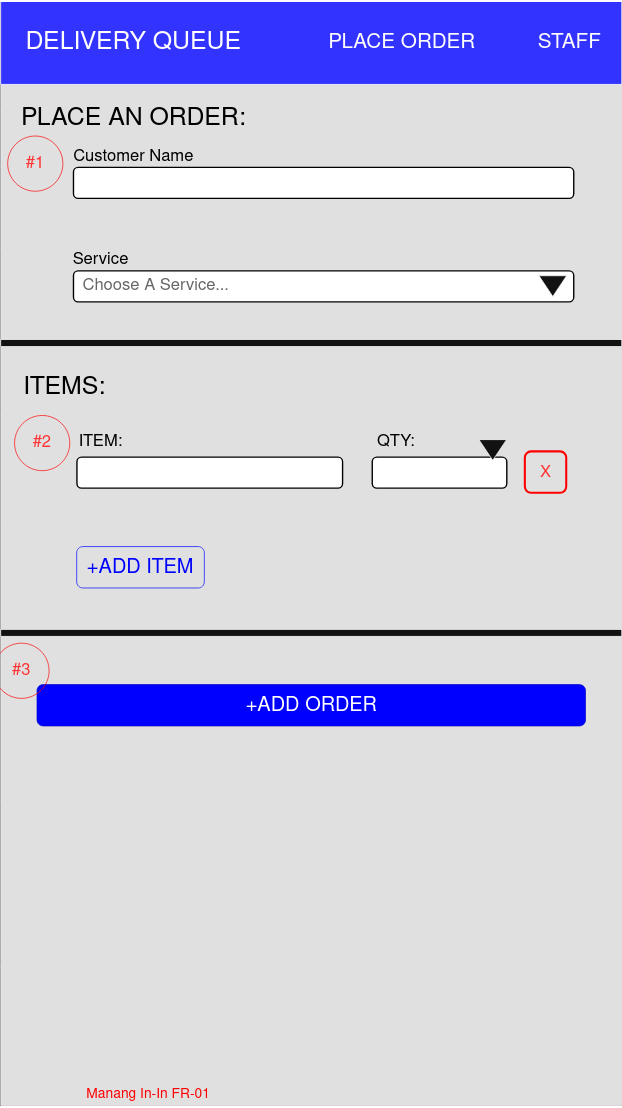
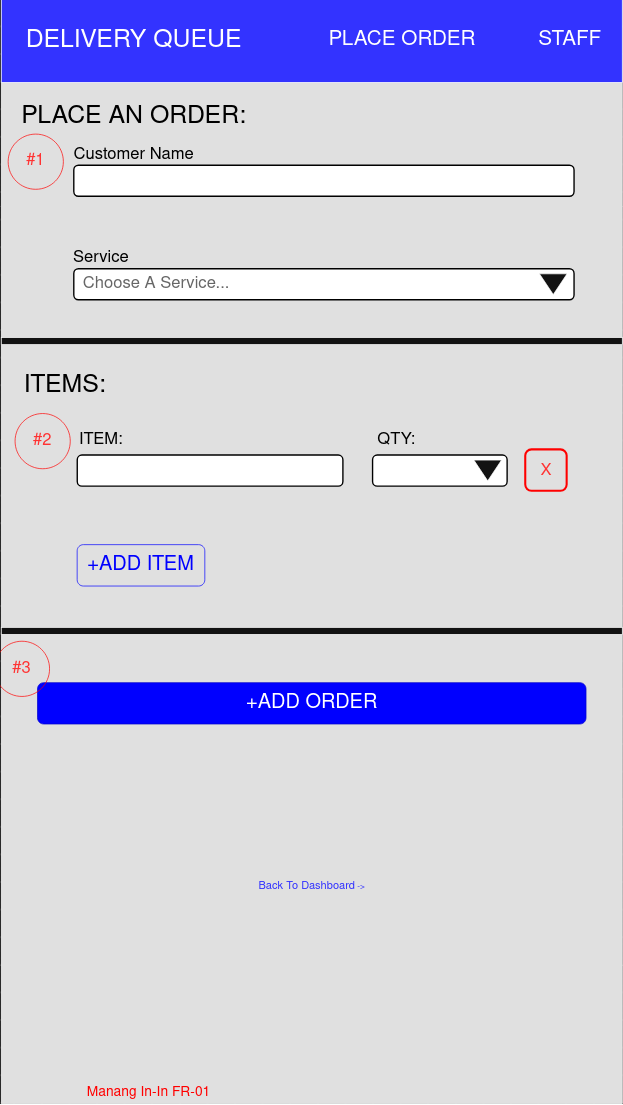
feedback.md

diff --git a/docs/week3/feedback.md b/docs/week3/feedback.md
@@ -1,0 +1,23 @@
+# Screen 1: Join 
+Works Well: Add Order button lets users like Cartso and Manang In-In items for 1 order. They dont have to create multiple orders for multiple items   
+
+Problem: There is no back to dashboard button. Users have to click on the title to go back to the dashboard. Requires some recognition on the users' part.  
+
+Change: Add a back to dashboard button to the bottom of the add order form
+
+# Screen 2: My Place
+Works Well: Details of the order are placed inside the my place, allowing business owners like Manang In-In to double check orders.
+
+Problem: No back to dashboard button. User needs to recall clicking on the title to go back to queue  
+
+Change: Add back to dashboard button 
+
+# Screen 3: Staff Dashboard
+Works Well: Dashboard is kept brief by omitting order details out of them. Changing order's status is handled like a list because some deliveries and orders can be resolved faster  
+
+Problem: Lack of filtering makes it difficult when there are enough orders to need scrolling. 
+
+Change: Add filtering options for orders in progress like Waiting and In Transit orders  
+
+
+

diff --git a/docs/week3/personas.md b/docs/week3/personas.md
@@ -32,6 +32,7 @@ Manang In-In opens her business and gets a delivery on call. After receiving the
 
 1. Because staff prioritize deliveries by location, the interface needs to display delivery addresses prominently.
 2. Because staff receive orders from multiple customers, the interface needs to display customer names on ticket cards.
+3. Because some orders are closer to the store. the interface needs the ability to change statuses of orders at any order Manang In-In needs   
 
 ## Cartso, small business owner of beverage warehouse that only offers pickup
 
